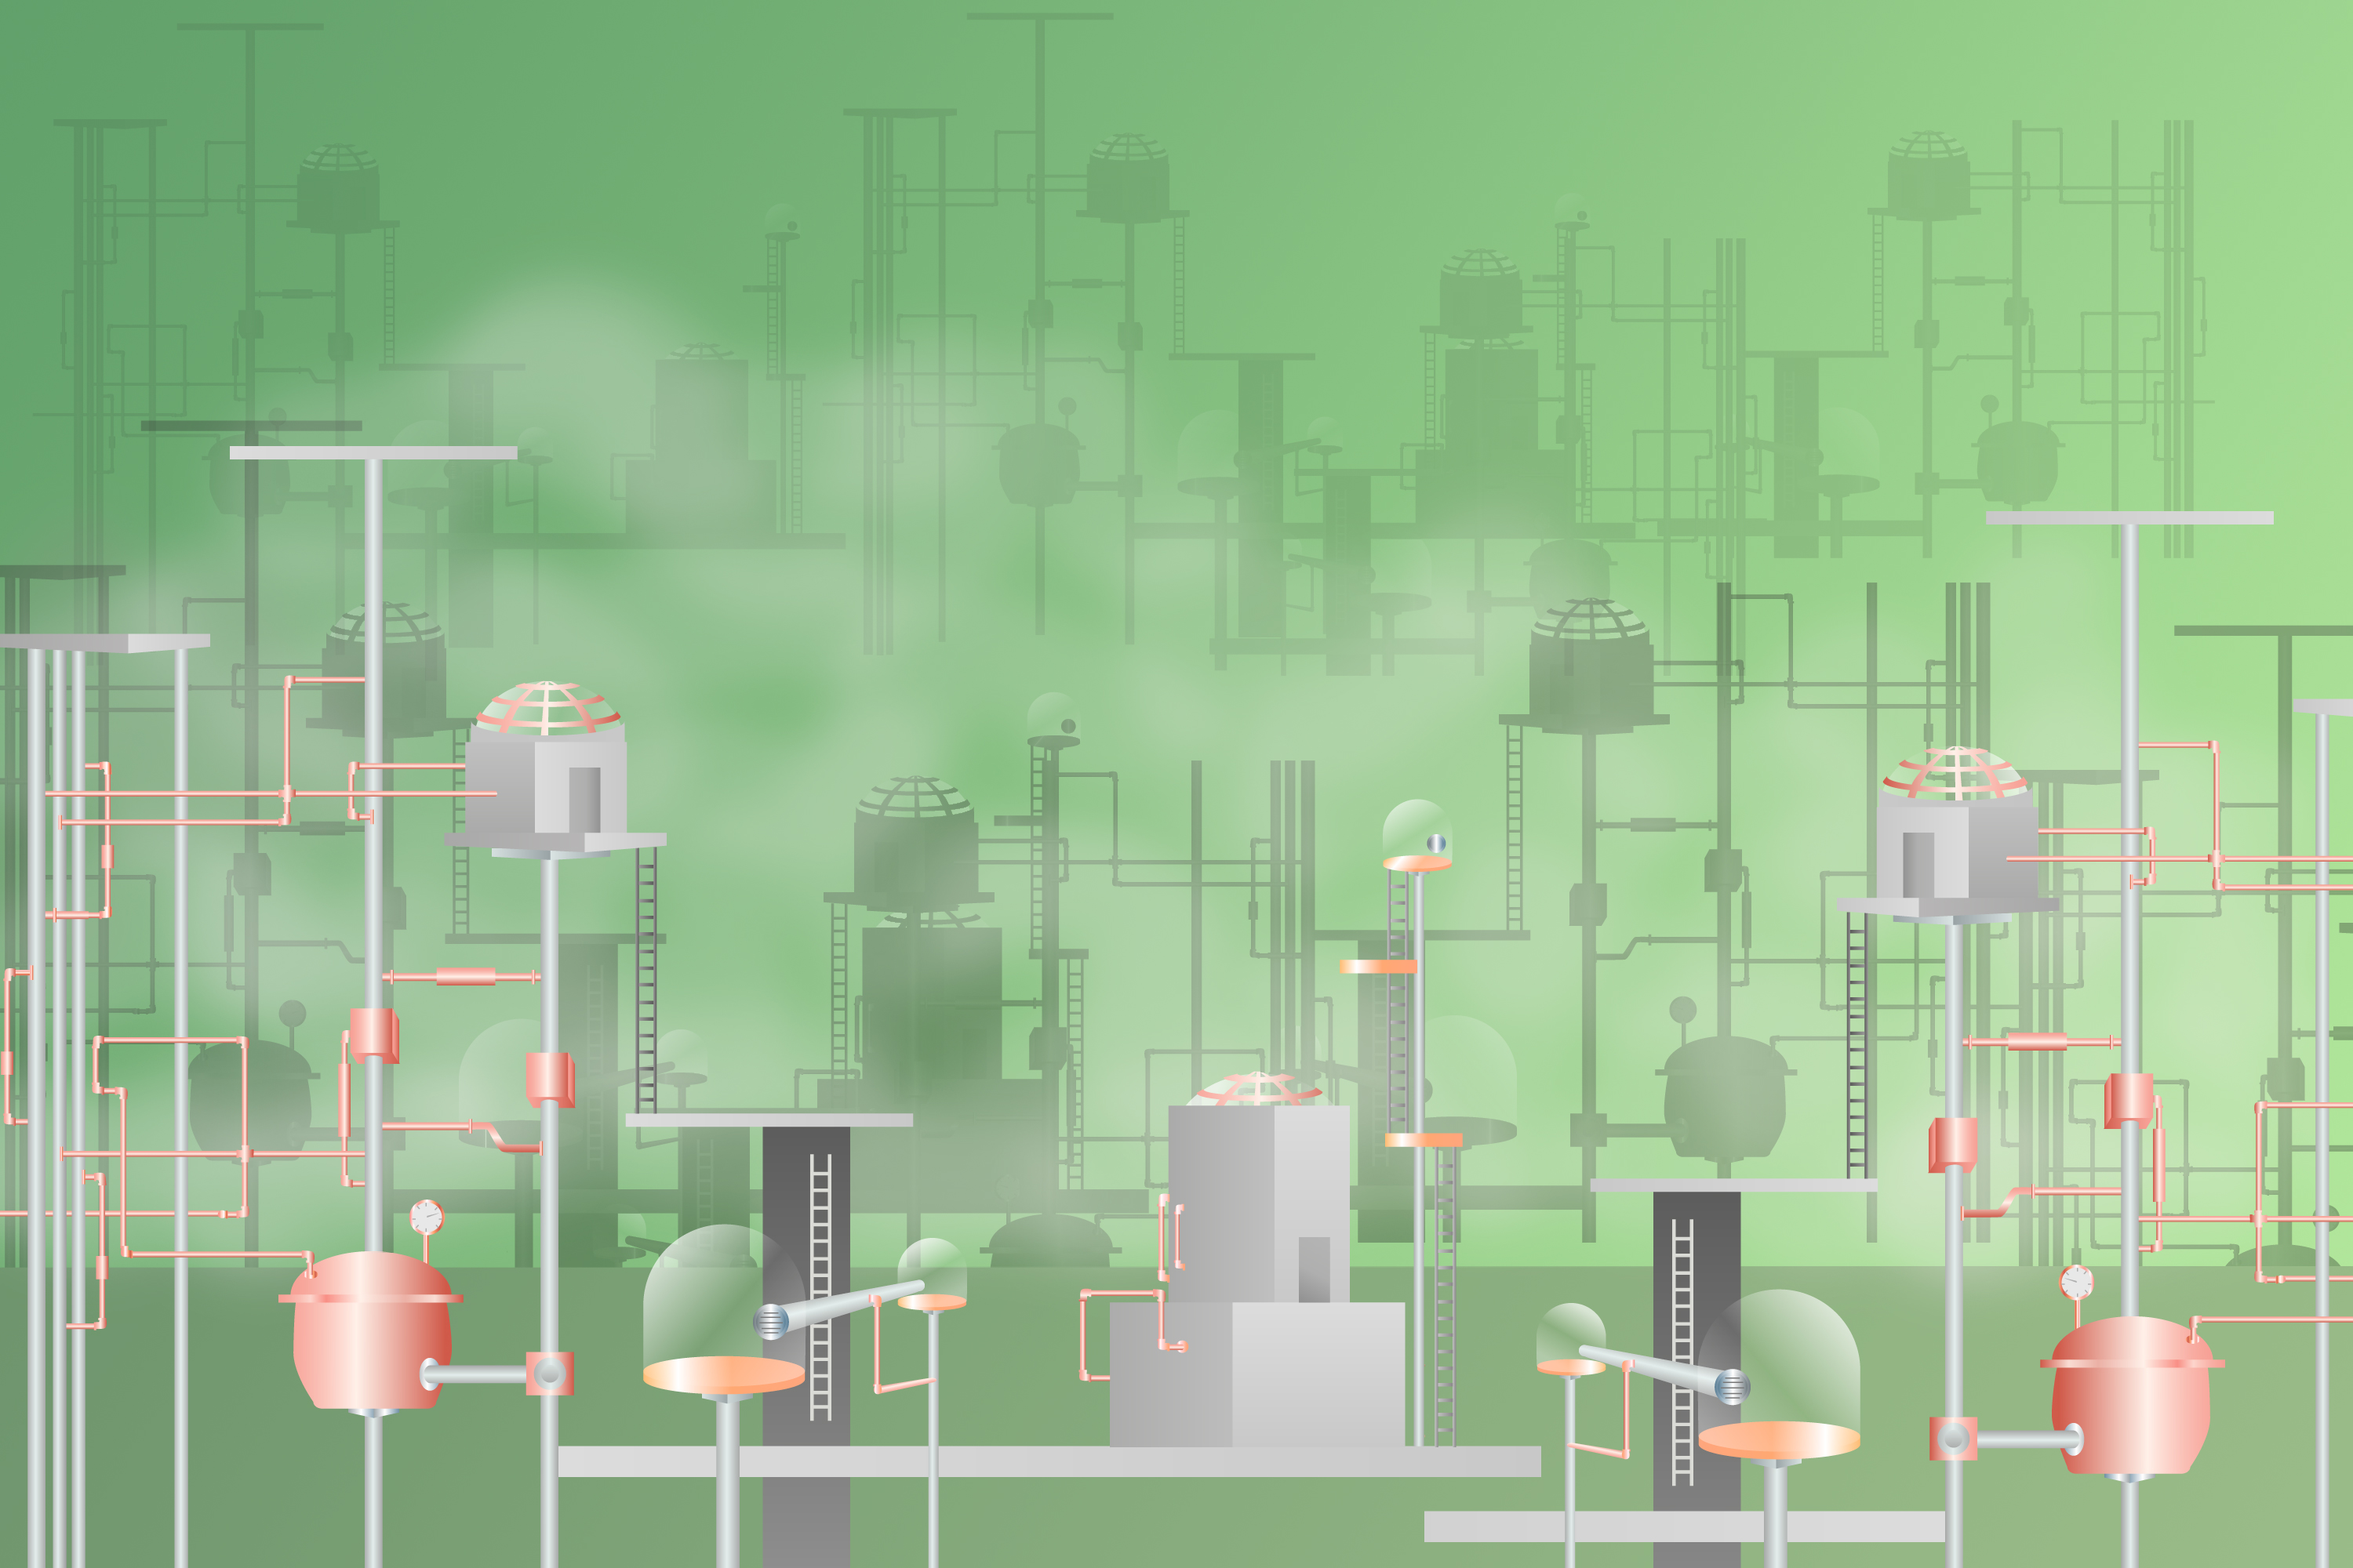
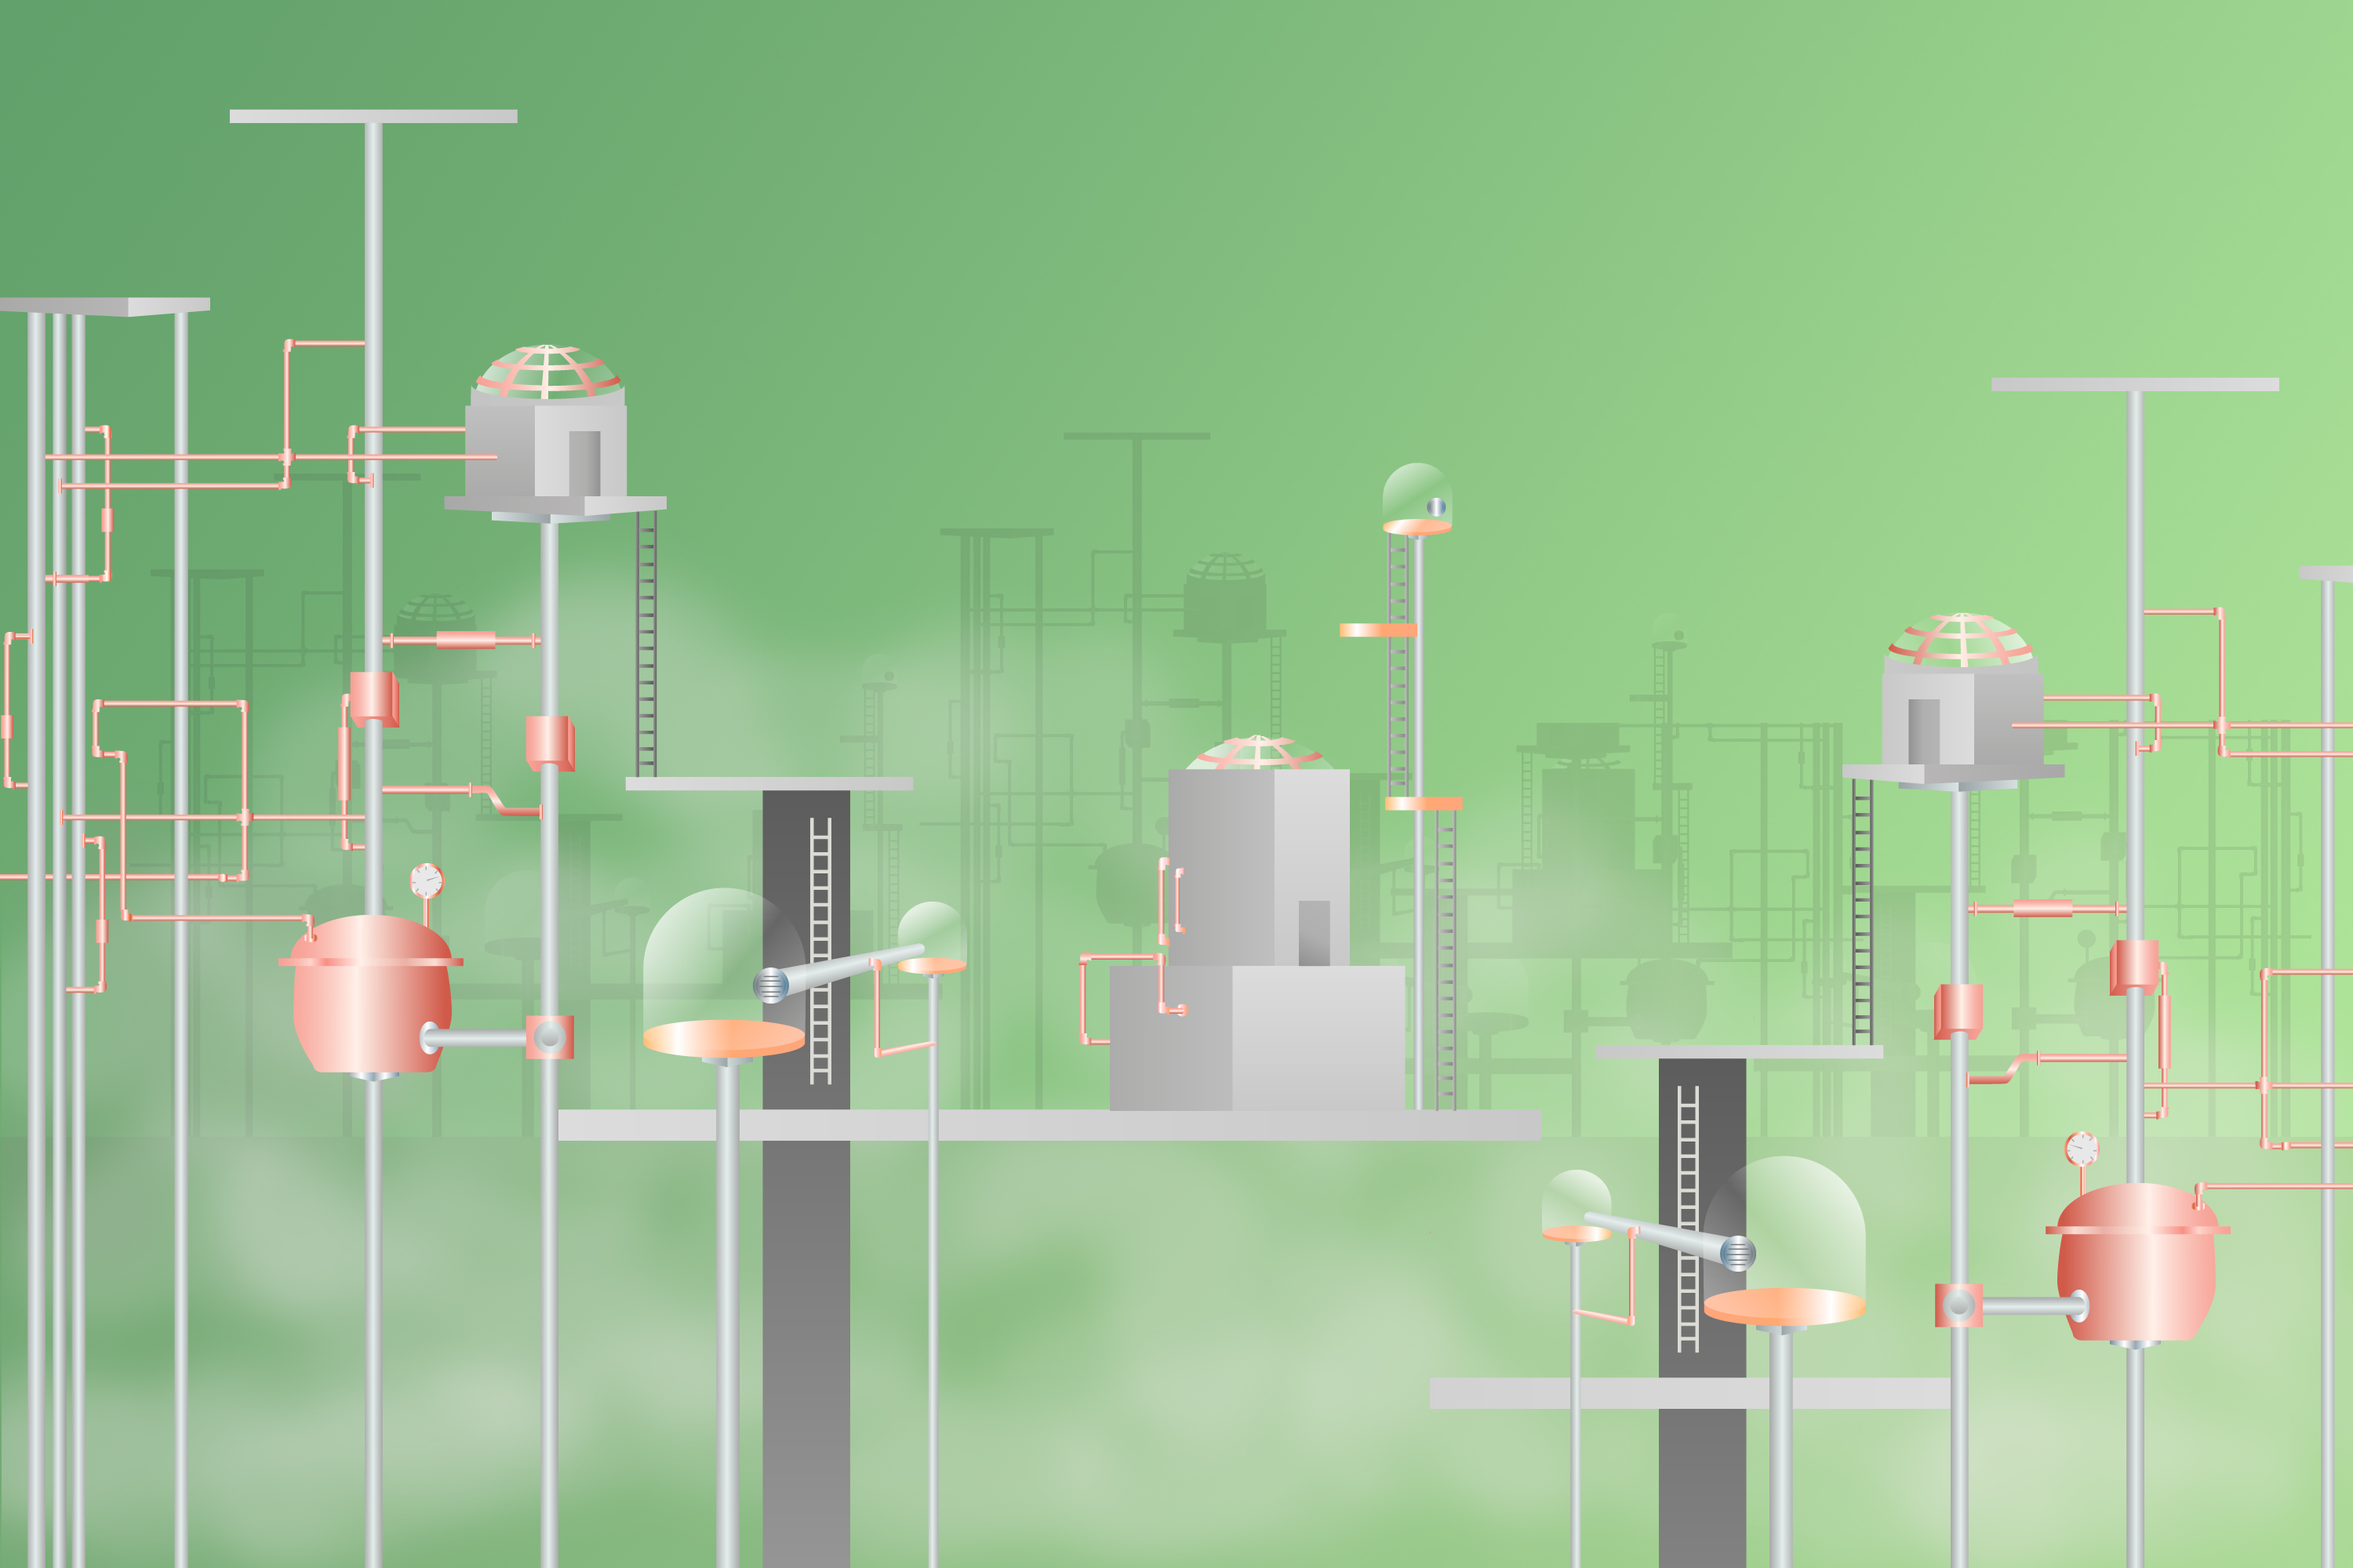
new background layers

diff --git a/js/createobject.js b/js/createobject.js
@@ -117,6 +117,17 @@ function writeWorld(){
 	createObject.movingPlatform.create(-400,0);
 }
 
+//background with pipes created
+
+var Pipes = new THREE.PlaneGeometry( 6000, 788 , 1 );
+var pipesMaterial = new THREE.MeshPhongMaterial( {
+	map: THREE.ImageUtils.loadTexture("images/pipes.png"),
+	transparent: true
+});
+var pipesBackground = new THREE.Mesh( Pipes, pipesMaterial );
+pipesBackground.position.z = -250;
+pipesBackground.position.y = -300;
+scene.add(pipesBackground);
 
 //background created
 
@@ -127,6 +138,8 @@ var backgroundMaterial = new THREE.MeshPhongMaterial( {
 var background = new THREE.Mesh( backgroundGeometry, backgroundMaterial );
 background.position.z = -350;
 scene.add(background);
+
+
 function jump(){
 	if (sprite.jumping == false && inAir == false){
 		gravity.accel = 1;
